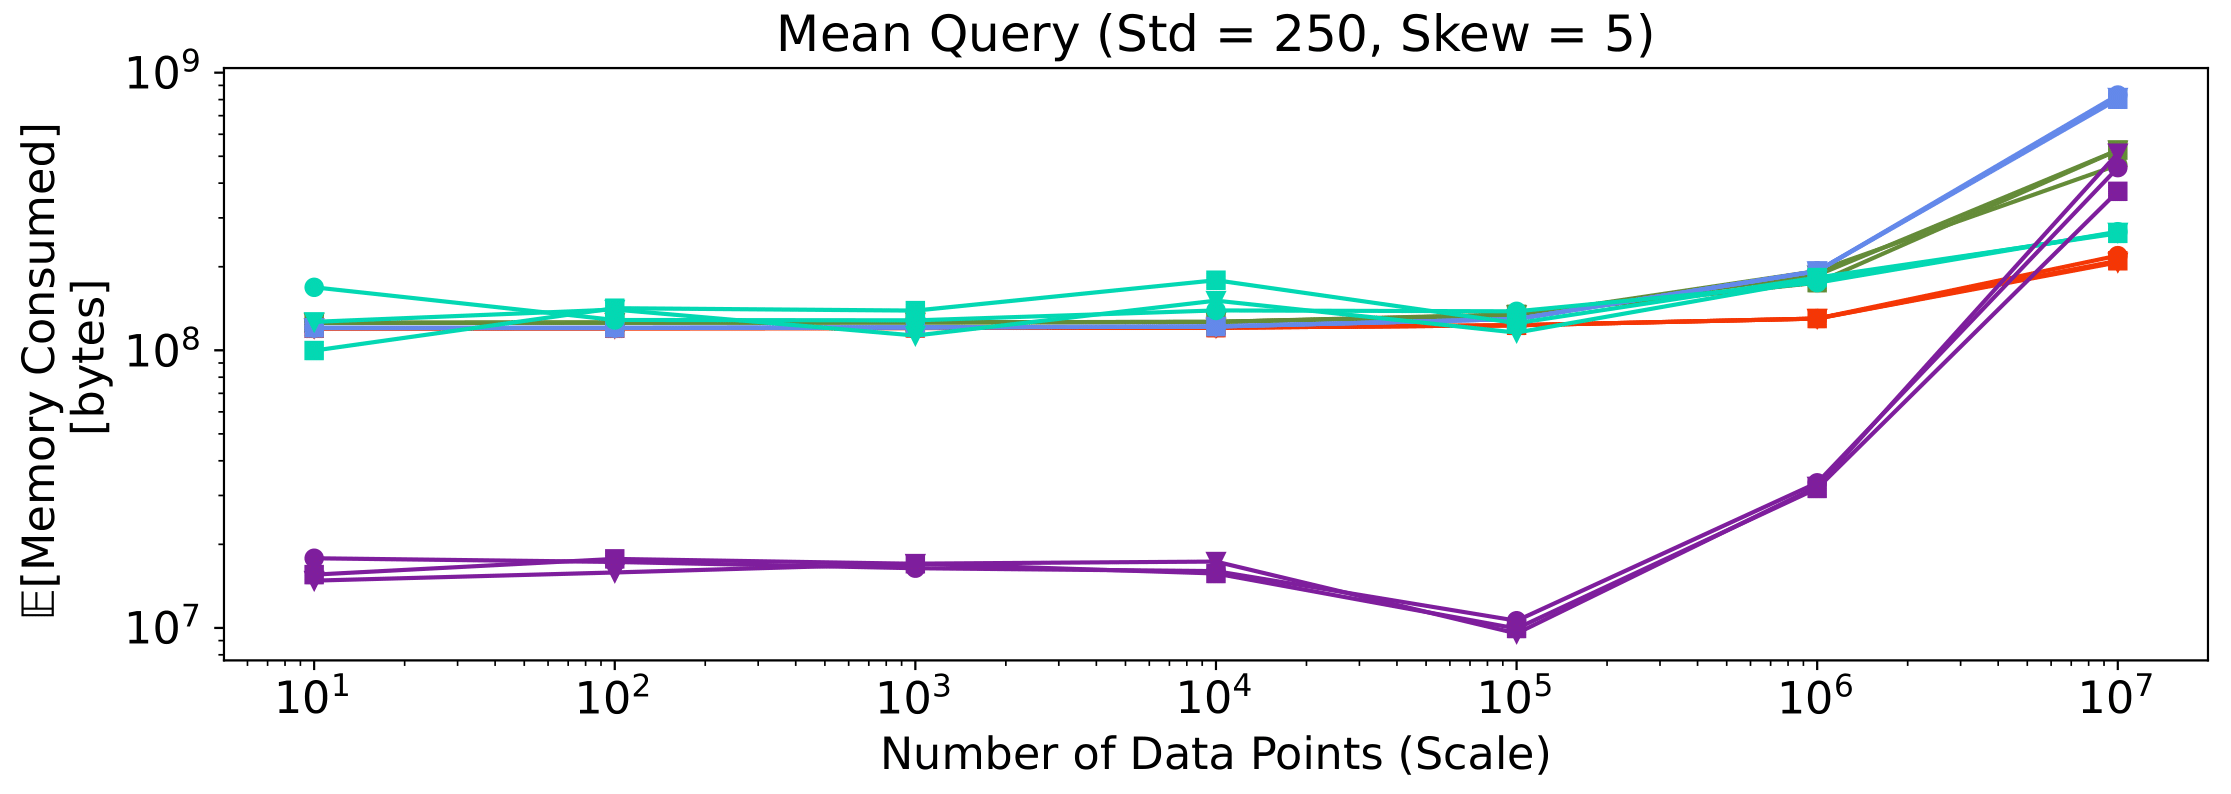
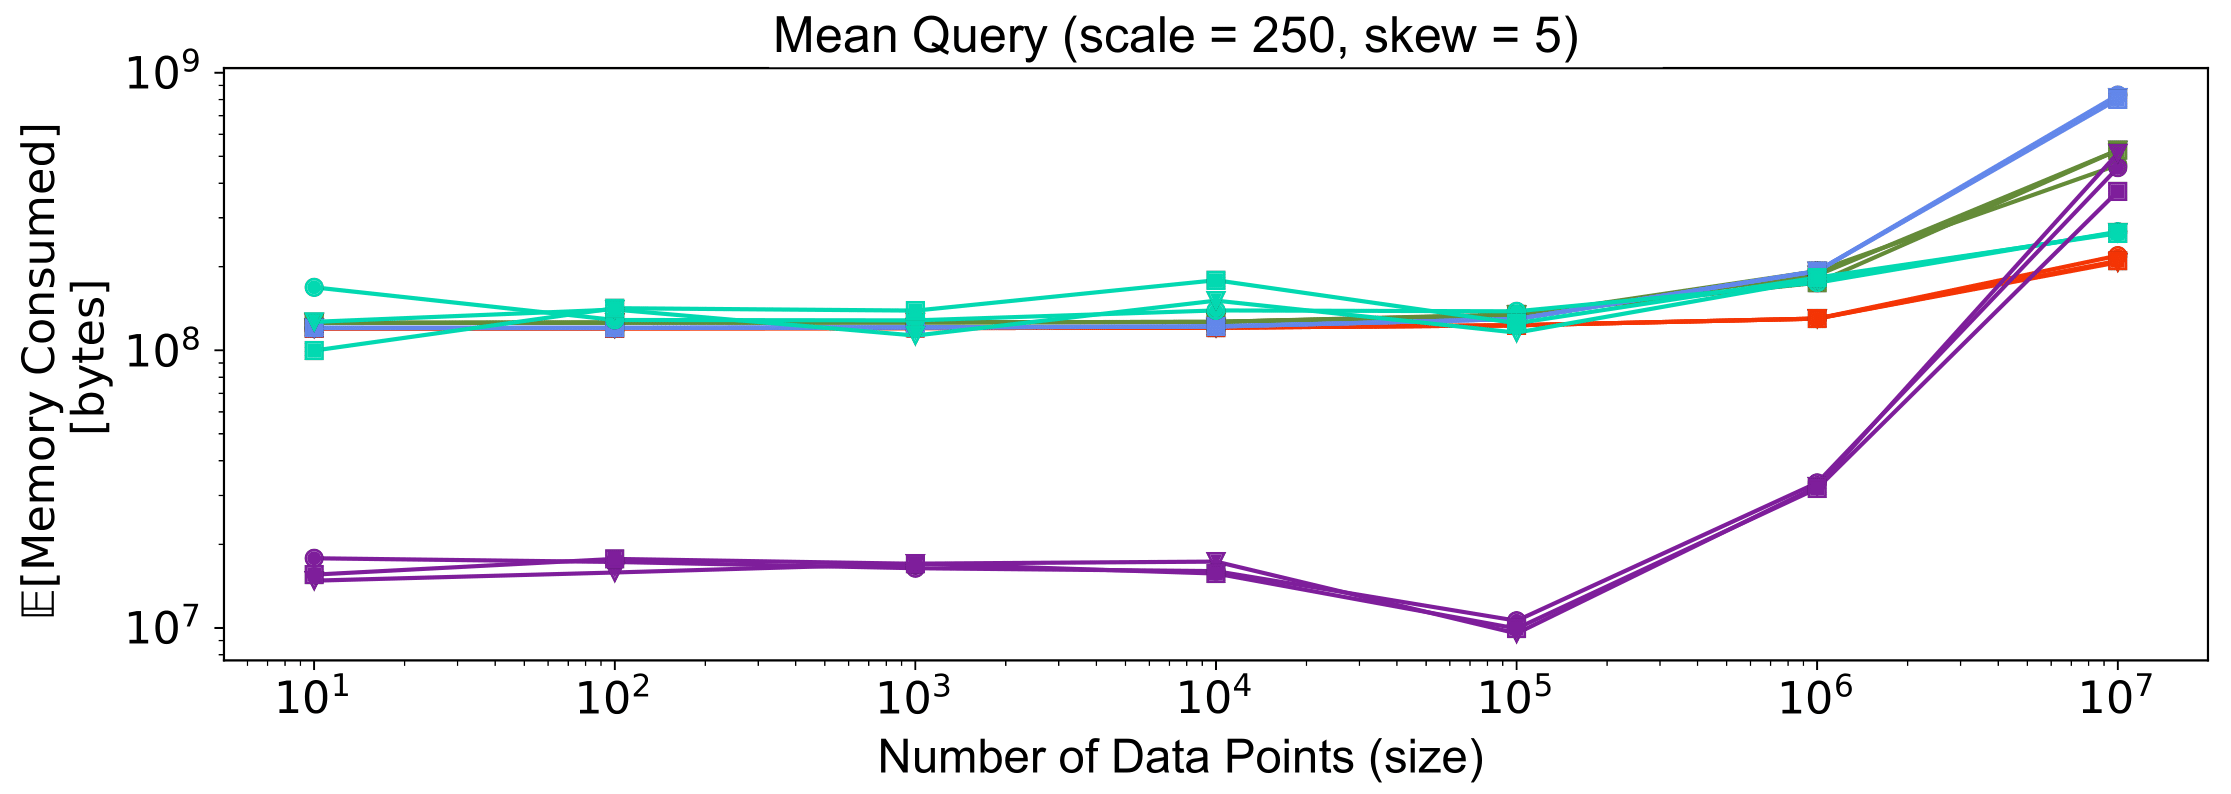
plotting code updated

Changed region(s): [[0.3402, 0.0, 0.7423, 0.0907], [0.3711, 0.9068, 0.7113, 0.9975]]

diff --git a/Libraries_Benchmark/Normally_distributed_dataset_experiments/Code/Plotting/plot_with_sum_mean.py b/Libraries_Benchmark/Normally_distributed_dataset_experiments/Code/Plotting/plot_with_sum_mean.py
@@ -124,7 +124,7 @@ def plots_with_sizes(result_folder, query, sets, first_dataset, second_dataset, 
     #################   MEAN RELATIVE ERROR  ############################
     ax2 = plt.subplot(gs1[0,1])
 
-    ax2.plot(x2, abs(IBM_mean_relative_error_0)*100, "o", markeredgecolor='k', mfc='none', label="scale = 1000")
+    ax2.plot(x2, abs(IBM_mean_relative_error_0)*100, "o", markeredgecolor='k', mfc='none', label="Size = 1000")
     ax2.plot(epsilon, abs(IBM_mean_relative_error_0)*100, color = 'xkcd:orangish red')
     ax2.plot(x2, abs(SmartNoise_mean_relative_error_0)*100, "o", markeredgecolor='k', mfc='none')
     ax2.plot(epsilon, abs(SmartNoise_mean_relative_error_0)*100, color = 'xkcd:moss green')
@@ -137,7 +137,7 @@ def plots_with_sizes(result_folder, query, sets, first_dataset, second_dataset, 
     ax2.plot(x2, abs(chorus_mean_relative_error_0)*100, "o", markeredgecolor='k', mfc='none')
     ax2.plot(epsilon, abs(chorus_mean_relative_error_0)*100, color = 'xkcd:purple')
 
-    ax2.plot(x2, abs(IBM_mean_relative_error_1)*100, "s", markeredgecolor='k',mfc='none', label="scale = 10000")
+    ax2.plot(x2, abs(IBM_mean_relative_error_1)*100, "s", markeredgecolor='k',mfc='none', label="Size = 10000")
     ax2.plot(epsilon, abs(IBM_mean_relative_error_1)*100, color = 'xkcd:orangish red')
     ax2.plot(x2, abs(SmartNoise_mean_relative_error_1)*100, "s", markeredgecolor='k',mfc='none')
     ax2.plot(epsilon, abs(SmartNoise_mean_relative_error_1)*100, color = 'xkcd:moss green')
@@ -150,7 +150,7 @@ def plots_with_sizes(result_folder, query, sets, first_dataset, second_dataset, 
     ax2.plot(x2, abs(chorus_mean_relative_error_1)*100, "s", markeredgecolor='k',mfc='none')
     ax2.plot(epsilon, abs(chorus_mean_relative_error_1)*100, color = 'xkcd:purple')
 
-    ax2.plot(x2, abs(IBM_mean_relative_error_2)*100, "v", markeredgecolor='k',mfc='none', label="scale = 100000")
+    ax2.plot(x2, abs(IBM_mean_relative_error_2)*100, "v", markeredgecolor='k',mfc='none', label="Size = 100000")
     ax2.plot(epsilon, abs(IBM_mean_relative_error_2)*100, color = 'xkcd:orangish red')
     ax2.plot(x2, abs(SmartNoise_mean_relative_error_2)*100, "v", markeredgecolor='k',mfc='none')
     ax2.plot(epsilon, abs(SmartNoise_mean_relative_error_2)*100, color = 'xkcd:moss green')
@@ -164,7 +164,7 @@ def plots_with_sizes(result_folder, query, sets, first_dataset, second_dataset, 
     ax2.plot(epsilon, abs(chorus_mean_relative_error_2)*100, color = 'xkcd:purple')
 
     ax2.set_xlabel('ε', fontsize = 18)
-    ax2.set_ylabel('Sample Mean of the \n Absolute Relative Error [%]', fontsize = 28)
+    ax2.set_ylabel('Sample Mean of the \n Relative Error [%]', fontsize = 28)
     #ax2.set_xticklabels(epsilon, rotation=0, fontsize=18)
     #ax2.set_yticklabels(epsilon, rotation=0, fontsize=18)
 
@@ -181,45 +181,45 @@ def plots_with_sizes(result_folder, query, sets, first_dataset, second_dataset, 
     if query == 'sum':
         ax1.set_ylim(10**-8, 10**8)
         if sets == 1:
-            figure.suptitle('Sum Query (Std = 50, Skew = 0)', fontsize=28)
+            figure.suptitle('Sum Query (Scale = 50, Skew = 0)', fontsize=28)
         if sets == 2:
-            figure.suptitle('Sum Query (Std = 250, Skew = 0)', fontsize=28)
+            figure.suptitle('Sum Query (Scale = 250, Skew = 0)', fontsize=28)
         if sets == 3:
-            figure.suptitle('Sum Query (Std = 500, Skew = 0)', fontsize=28)
+            figure.suptitle('Sum Query (Scale = 500, Skew = 0)', fontsize=28)
         if sets == 4:
-            figure.suptitle('Sum Query (Std = 50, Skew = 5)', fontsize=28)
+            figure.suptitle('Sum Query (Scale = 50, Skew = 5)', fontsize=28)
         if sets == 5:
-            figure.suptitle('Sum Query (Std = 250, Skew = 5)', fontsize=28)
+            figure.suptitle('Sum Query (Scale = 250, Skew = 5)', fontsize=28)
         if sets == 6:
-            figure.suptitle('Sum Query (Std = 500, Skew = 5)', fontsize=28)
+            figure.suptitle('Sum Query (Scale = 500, Skew = 5)', fontsize=28)
         if sets == 7:
-            figure.suptitle('Sum Query (Std = 50, Skew = 50)', fontsize=28)
+            figure.suptitle('Sum Query (Scale = 50, Skew = 50)', fontsize=28)
         if sets == 8:
-            figure.suptitle('Sum Query (Std = 250, Skew = 50)', fontsize=28)
+            figure.suptitle('Sum Query (Scale = 250, Skew = 50)', fontsize=28)
         if sets == 9:
-            figure.suptitle('Sum Query (Std = 500, Skew = 50)', fontsize=28)
+            figure.suptitle('Sum Query (Scale = 500, Skew = 50)', fontsize=28)
 
 
     if query == 'mean':
         ax1.set_ylim(10**-12, 10**2)
         if sets == 1:
-            figure.suptitle('Mean Query (Std = 50, Skew = 0)', fontsize=28)
+            figure.suptitle('Mean Query (Scale = 50, Skew = 0)', fontsize=28)
         if sets == 2:
-            figure.suptitle('Mean Query (Std = 250, Skew = 0)', fontsize=28)
+            figure.suptitle('Mean Query (Scale = 250, Skew = 0)', fontsize=28)
         if sets == 3:
-            figure.suptitle('Mean Query (Std = 500, Skew = 0)', fontsize=28)
+            figure.suptitle('Mean Query (Scale = 500, Skew = 0)', fontsize=28)
         if sets == 4:
-            figure.suptitle('Mean Query (Std = 50, Skew = 5)', fontsize=28)
+            figure.suptitle('Mean Query (Scale = 50, Skew = 5)', fontsize=28)
         if sets == 5:
-            figure.suptitle('Mean Query (Std = 250, Skew = 5)', fontsize=28)
+            figure.suptitle('Mean Query (Scale = 250, Skew = 5)', fontsize=28)
         if sets == 6:
-            figure.suptitle('Mean Query (Std = 500, Skew = 5)', fontsize=28)
+            figure.suptitle('Mean Query (Scale = 500, Skew = 5)', fontsize=28)
         if sets == 7:
-            figure.suptitle('Mean Query (Std = 50, Skew = 50)', fontsize=28)
+            figure.suptitle('Mean Query (Scale = 50, Skew = 50)', fontsize=28)
         if sets == 8:
-            figure.suptitle('Mean Query (Std = 250, Skew = 50)', fontsize=28)
+            figure.suptitle('Mean Query (Scale = 250, Skew = 50)', fontsize=28)
         if sets == 9:
-            figure.suptitle('Mean Query (Std = 500, Skew = 50)', fontsize=28)
+            figure.suptitle('Mean Query (Scale = 500, Skew = 50)', fontsize=28)
 
     ax1.tick_params(axis='both', which='major', labelsize=25)
     ax2.tick_params(axis='both', which='major', labelsize=25)

diff --git a/Libraries_Benchmark/Normally_distributed_dataset_experiments/Code/Plotting/plot_with_var.py b/Libraries_Benchmark/Normally_distributed_dataset_experiments/Code/Plotting/plot_with_var.py
@@ -109,7 +109,7 @@ def plots_with_sizes(result_folder, sets, query, first_dataset, second_dataset, 
     #################   MEAN RELATIVE ERROR  ############################
     ax2 = plt.subplot(gs1[0,1])
 
-    ax2.plot(x2, abs(IBM_mean_relative_error_0)*100, "o", markeredgecolor='k', mfc='none', label="scale = 1000")
+    ax2.plot(x2, abs(IBM_mean_relative_error_0)*100, "o", markeredgecolor='k', mfc='none', label="Size = 1000")
     ax2.plot(epsilon, abs(IBM_mean_relative_error_0)*100, color = 'xkcd:orangish red')
     ax2.plot(x2, abs(SmartNoise_mean_relative_error_0)*100, "o", markeredgecolor='k', mfc='none')
     ax2.plot(epsilon, abs(SmartNoise_mean_relative_error_0)*100, color = 'xkcd:moss green')
@@ -120,7 +120,7 @@ def plots_with_sizes(result_folder, sets, query, first_dataset, second_dataset, 
     ax2.plot(x2, abs(diffpriv_mean_relative_error_0)*100, "o", markeredgecolor='k', mfc='none')
     ax2.plot(epsilon, abs(diffpriv_mean_relative_error_0)*100, color = 'xkcd:grey')
 
-    ax2.plot(x2, abs(IBM_mean_relative_error_1)*100, "s", markeredgecolor='k',mfc='none', label="scale = 10000")
+    ax2.plot(x2, abs(IBM_mean_relative_error_1)*100, "s", markeredgecolor='k',mfc='none', label="Size = 10000")
     ax2.plot(epsilon, abs(IBM_mean_relative_error_1)*100, color = 'xkcd:orangish red')
     ax2.plot(x2, abs(SmartNoise_mean_relative_error_1)*100, "s", markeredgecolor='k',mfc='none')
     ax2.plot(epsilon, abs(SmartNoise_mean_relative_error_1)*100, color = 'xkcd:moss green')
@@ -132,7 +132,7 @@ def plots_with_sizes(result_folder, sets, query, first_dataset, second_dataset, 
     ax2.plot(epsilon, abs(diffpriv_mean_relative_error_1)*100, color = 'xkcd:grey')
 
 
-    ax2.plot(x2, abs(IBM_mean_relative_error_2)*100, "v", markeredgecolor='k',mfc='none', label="scale = 100000")
+    ax2.plot(x2, abs(IBM_mean_relative_error_2)*100, "v", markeredgecolor='k',mfc='none', label="Size = 100000")
     ax2.plot(epsilon, abs(IBM_mean_relative_error_2)*100, color = 'xkcd:orangish red')
     ax2.plot(x2, abs(SmartNoise_mean_relative_error_2)*100, "v", markeredgecolor='k',mfc='none')
     ax2.plot(epsilon, abs(SmartNoise_mean_relative_error_2)*100, color = 'xkcd:moss green')
@@ -145,7 +145,7 @@ def plots_with_sizes(result_folder, sets, query, first_dataset, second_dataset, 
 
 
     ax2.set_xlabel('ε', fontsize = 18)
-    ax2.set_ylabel('Sample Mean of the \n Absolute Relative Error [%]', fontsize = 26)
+    ax2.set_ylabel('Sample Mean of the \n Relative Error [%]', fontsize = 26)
     
     #ax1.legend(prop={'size': 19}, loc="lower center", bbox_to_anchor=(1.05, -0.72), frameon=False, ncol=2, handletextpad=0.2, handlelength=1, columnspacing=0.5)
     #ax2.legend(prop={'size': 18}, loc="lower center", bbox_to_anchor=(-0.17, -0.35), frameon=False, ncol=3, handletextpad=0.2)
@@ -154,23 +154,23 @@ def plots_with_sizes(result_folder, sets, query, first_dataset, second_dataset, 
     if query == 'var':
         ax1.set_ylim(10**-10, 10**3)
         if sets == 1:
-            figure.suptitle('Variance Query (Std = 50, Skew = 0)', fontsize=24)
+            figure.suptitle('Variance Query (Scale = 50, Skew = 0)', fontsize=24)
         if sets == 2:
-            figure.suptitle('Variance Query (Std = 250, Skew = 0)', fontsize=24)
+            figure.suptitle('Variance Query (Scale = 250, Skew = 0)', fontsize=24)
         if sets == 3:
-            figure.suptitle('Variance Query (Std = 500, Skew = 0)', fontsize=24)
+            figure.suptitle('Variance Query (Scale = 500, Skew = 0)', fontsize=24)
         if sets == 4:
-            figure.suptitle('Variance Query (Std = 50, Skew = 5)', fontsize=24)
+            figure.suptitle('Variance Query (Scale = 50, Skew = 5)', fontsize=24)
         if sets == 5:
-            figure.suptitle('Variance Query (Std = 250, Skew = 5)', fontsize=24)
+            figure.suptitle('Variance Query (Scale = 250, Skew = 5)', fontsize=24)
         if sets == 6:
-            figure.suptitle('Variance Query (Std = 500, Skew = 5)', fontsize=24)
+            figure.suptitle('Variance Query (Scale = 500, Skew = 5)', fontsize=24)
         if sets == 7:
-            figure.suptitle('Variance Query (Std = 50, Skew = 50)', fontsize=24)
+            figure.suptitle('Variance Query (Scale = 50, Skew = 50)', fontsize=24)
         if sets == 8:
-            figure.suptitle('Variance Query (Std = 250, Skew = 50)', fontsize=24)
+            figure.suptitle('Variance Query (Scale = 250, Skew = 50)', fontsize=24)
         if sets == 9:
-            figure.suptitle('Variance Query (Std = 500, Skew = 50)', fontsize=24)
+            figure.suptitle('Variance Query (Scale = 500, Skew = 50)', fontsize=24)
 
     ax1.tick_params(axis='both', which='major', labelsize=25)
     ax2.tick_params(axis='both', which='major', labelsize=25)

diff --git a/Libraries_Benchmark/Normally_distributed_dataset_experiments/Code/Plotting/plot_with_count.py b/Libraries_Benchmark/Normally_distributed_dataset_experiments/Code/Plotting/plot_with_count.py
@@ -128,7 +128,7 @@ def plots_with_sizes(result_folder, query, sets, first_dataset, second_dataset, 
     #################   MEAN RELATIVE ERROR  ############################
     ax2 = plt.subplot(gs1[0,1])
 
-    ax2.plot(x2, abs(IBM_mean_relative_error_0)*100, "o", markeredgecolor='k', mfc='none', label="scale = 1000")
+    ax2.plot(x2, abs(IBM_mean_relative_error_0)*100, "o", markeredgecolor='k', mfc='none', label="Size = 1000")
     ax2.plot(epsilon, abs(IBM_mean_relative_error_0)*100, color = 'xkcd:orangish red')
     ax2.plot(x2, abs(SmartNoise_mean_relative_error_0)*100, "o", markeredgecolor='k', mfc='none')
     ax2.plot(epsilon, abs(SmartNoise_mean_relative_error_0)*100, color = 'xkcd:moss green')
@@ -143,7 +143,7 @@ def plots_with_sizes(result_folder, query, sets, first_dataset, second_dataset, 
     #ax2.plot(x2, [float(additive_noise_mean_relative_error_0[0])*100]*73 , "o", markeredgecolor='k', mfc='none')
     #ax2.plot(epsilon, [float(additive_noise_mean_relative_error_0[0])*100]*73, color = 'k')
 
-    ax2.plot(x2, abs(IBM_mean_relative_error_1)*100, "s", markeredgecolor='k',mfc='none', label="scale = 10000")
+    ax2.plot(x2, abs(IBM_mean_relative_error_1)*100, "s", markeredgecolor='k',mfc='none', label="Size = 10000")
     ax2.plot(epsilon, abs(IBM_mean_relative_error_1)*100, color = 'xkcd:orangish red')
     ax2.plot(x2, abs(SmartNoise_mean_relative_error_1)*100, "s", markeredgecolor='k',mfc='none')
     ax2.plot(epsilon, abs(SmartNoise_mean_relative_error_1)*100, color = 'xkcd:moss green')
@@ -159,7 +159,7 @@ def plots_with_sizes(result_folder, query, sets, first_dataset, second_dataset, 
     #ax2.plot(epsilon, [float(additive_noise_mean_relative_error_1[0])*100]*73, color = 'k')
 
 
-    ax2.plot(x2, abs(IBM_mean_relative_error_2)*100, "v", markeredgecolor='k',mfc='none', label="scale = 100000")
+    ax2.plot(x2, abs(IBM_mean_relative_error_2)*100, "v", markeredgecolor='k',mfc='none', label="Size = 100000")
     ax2.plot(epsilon, abs(IBM_mean_relative_error_2)*100, color = 'xkcd:orangish red')
     ax2.plot(x2, abs(SmartNoise_mean_relative_error_2)*100, "v", markeredgecolor='k',mfc='none')
     ax2.plot(epsilon, abs(SmartNoise_mean_relative_error_2)*100, color = 'xkcd:moss green')
@@ -176,7 +176,7 @@ def plots_with_sizes(result_folder, query, sets, first_dataset, second_dataset, 
 
 
     ax2.set_xlabel('ε', fontsize = 18)
-    ax2.set_ylabel('Sample Mean of the \n Absolute Relative Error [%]', fontsize = 28)
+    ax2.set_ylabel('Sample Mean of the \n Relative Error [%]', fontsize = 28)
 
     
     #ax1.legend(prop={'size': 19}, loc="lower center", bbox_to_anchor=(1.05, -0.59), frameon=False, ncol=2, handletextpad=0.2, handlelength=1, columnspacing=0.5)
@@ -192,23 +192,23 @@ def plots_with_sizes(result_folder, query, sets, first_dataset, second_dataset, 
     if query == 'count':
         ax1.set_ylim(10**-8, 10**3)
         if sets == 1:
-            figure.suptitle('Count Query (Std = 50, Skew = 0)', fontsize=28)
+            figure.suptitle('Count Query (Scale = 50, Skew = 0)', fontsize=28)
         if sets == 2:
-            figure.suptitle('Count Query (Std = 250, Skew = 0)', fontsize=28)
+            figure.suptitle('Count Query (Scale = 250, Skew = 0)', fontsize=28)
         if sets == 3:
-            figure.suptitle('Count Query (Std = 500, Skew = 0)', fontsize=28)
+            figure.suptitle('Count Query (Scale = 500, Skew = 0)', fontsize=28)
         if sets == 4:
-            figure.suptitle('Count Query (Std = 50, Skew = 5)', fontsize=28)
+            figure.suptitle('Count Query (Scale = 50, Skew = 5)', fontsize=28)
         if sets == 5:
-            figure.suptitle('Count Query (Std = 250, Skew = 5)', fontsize=28)
+            figure.suptitle('Count Query (Scale = 250, Skew = 5)', fontsize=28)
         if sets == 6:
-            figure.suptitle('Count Query (Std = 500, Skew = 5)', fontsize=28)
+            figure.suptitle('Count Query (Scale = 500, Skew = 5)', fontsize=28)
         if sets == 7:
-            figure.suptitle('Count Query (Std = 50, Skew = 50)', fontsize=28)
+            figure.suptitle('Count Query (Scale = 50, Skew = 50)', fontsize=28)
         if sets == 8:
-            figure.suptitle('Count Query (Std = 250, Skew = 50)', fontsize=28)
+            figure.suptitle('Count Query (Scale = 250, Skew = 50)', fontsize=28)
         if sets == 9:
-            figure.suptitle('Count Query (Std = 500, Skew = 50)', fontsize=28)
+            figure.suptitle('Count Query (Scale = 500, Skew = 50)', fontsize=28)
 
     ax1.tick_params(axis='both', which='major', labelsize=25)
     ax2.tick_params(axis='both', which='major', labelsize=25)

diff --git a/Libraries_Benchmark/Real_dataset_experiments/code/Plotting/plots_code_real_dataset_var.py b/Libraries_Benchmark/Real_dataset_experiments/code/Plotting/plots_code_real_dataset_var.py
@@ -75,7 +75,7 @@ def plots_with_sizes(result_folder, query, attribute):
     #ax2.plot(epsilon, abs(chorus_relative)*100, color = 'xkcd:purple', label="Chorus, J. Near et al (Scala)")
 
     ax2.set_xlabel('ε', fontsize = 12)
-    ax2.set_ylabel('Sample Mean of the \n Absolute Relative Error [%]', fontsize = 16)
+    ax2.set_ylabel('Sample Mean of the \n Relative Error [%]', fontsize = 16)
     
     #ax1.legend(prop={'size': 19}, loc="lower center", bbox_to_anchor=(1.00, -0.02), frameon=False, ncol=4, handletextpad=0.2, handlelength=1, columnspacing=0.5)
     #ax2.legend(prop={'size': 18}, loc="lower center", bbox_to_anchor=(-0.13, -0.30), frameon=False, ncol=2, handletextpad=0.2, handlelength=1, columnspacing=0.5)

diff --git a/Libraries_Benchmark/Real_dataset_experiments/code/Plotting/plots_code_real_dataset.py b/Libraries_Benchmark/Real_dataset_experiments/code/Plotting/plots_code_real_dataset.py
@@ -75,7 +75,7 @@ def plots_with_sizes(result_folder, query, attribute):
     ax2.plot(epsilon, abs(chorus_relative)*100, color = 'xkcd:purple', label="Chorus, J. Near et al (Scala)")
 
     ax2.set_xlabel('ε', fontsize = 12)
-    ax2.set_ylabel('Sample Mean of the \n Absolute Relative Error [%]', fontsize = 16)
+    ax2.set_ylabel('Sample Mean of the \n Relative Error [%]', fontsize = 16)
     
     #ax1.legend(prop={'size': 19}, loc="lower center", bbox_to_anchor=(1.00, -0.02), frameon=False, ncol=4, handletextpad=0.2, handlelength=1, columnspacing=0.5)
     #ax2.legend(prop={'size': 18}, loc="lower center", bbox_to_anchor=(-0.13, -0.30), frameon=False, ncol=2, handletextpad=0.2, handlelength=1, columnspacing=0.5)
